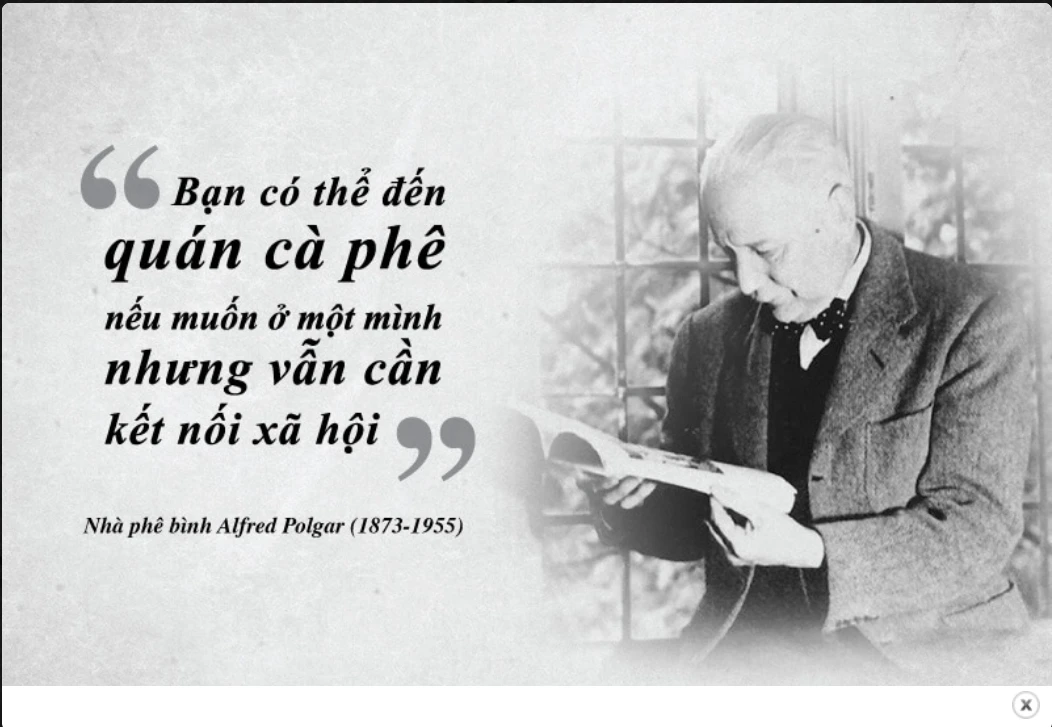
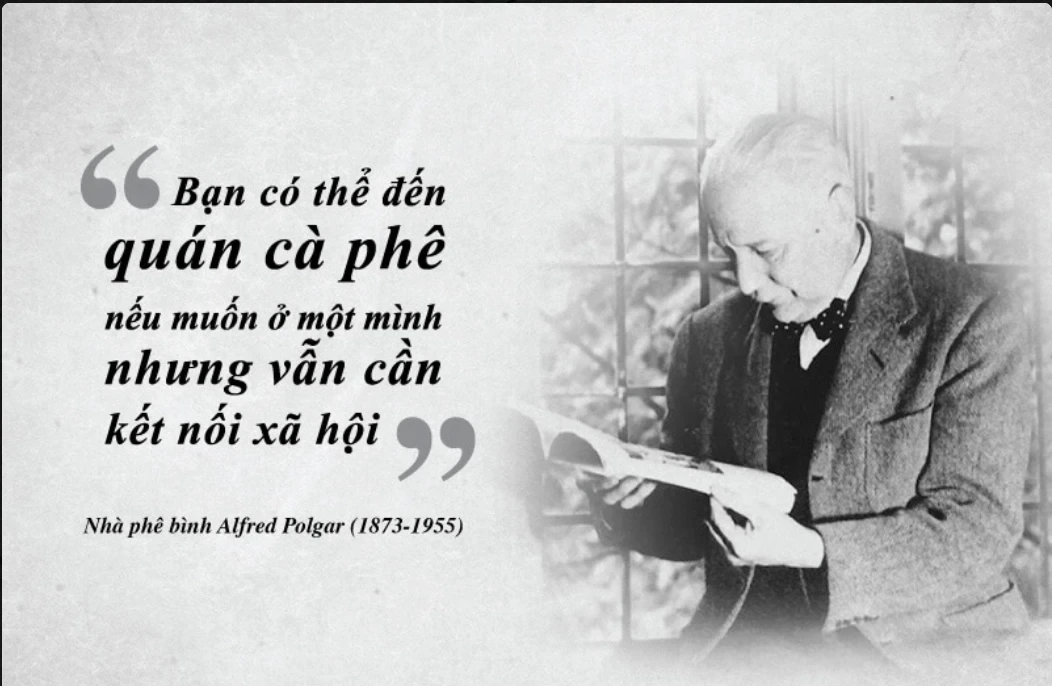
Xóa dấu × và dải trắng ở góc dưới phải của 4 ảnh trích dẫn
- Sydney Smith, Beethoven, Polgar: cắt bỏ dải trắng ở đáy ảnh (chứa dấu ×), ảnh còn
  686 điểm ảnh chiều cao; lưu WebP chất lượng cao
- Balzac: tô trắng đúng khung dấu ×, giữ PNG
- beethoven.png đổi thành beethoven.webp (xóa bản PNG gốc); cập nhật trich-dan.js
- Nguồn xử lý là bản PNG chất lượng cao hơn bản nháp trước

Đã thử trên trang: cả 4 ảnh hiện đúng, vừa khung, không còn dấu × trong ảnh.

Changed region(s): [[0.0, 0.1837, 1.0, 1.0], [0.0608, 0.1837, 0.4563, 0.7959], [0.7909, 0.2449, 0.8213, 0.2755]]

diff --git a/trich-dan.js b/trich-dan.js
@@ -8,7 +8,7 @@
   var QUOTES = [
     { src: "anh/menendez-pelayo.webp", alt: "\"Thế hệ tạo nên sự đổi mới của Tây Ban Nha được hình thành trong quán cà phê và các tổ chức giáo dục tự do.\" Triết gia Marcelino Menéndez Pelayo (1856 - 1912)" },
     { src: "anh/goldoni.webp", alt: "\"Một khi cà phê thịnh hành, tinh thần được đánh thức, mọi người đều cố gắng trở thành người văn minh hơn.\" Carlo Goldoni (1707 - 1793)" },
-    { src: "anh/beethoven.png", alt: "\"Tôi có thói quen lựa chọn đủ 60 hạt cà phê để pha một tách Moka.\" Thiên tài âm nhạc Ludwig Van Beethoven (1770 - 1827)" },
+    { src: "anh/beethoven.webp", alt: "\"Tôi có thói quen lựa chọn đủ 60 hạt cà phê để pha một tách Moka.\" Thiên tài âm nhạc Ludwig Van Beethoven (1770 - 1827)" },
     { src: "anh/polgar.webp", alt: "\"Bạn có thể đến quán cà phê nếu muốn ở một mình nhưng vẫn cần kết nối xã hội.\" Nhà phê bình Alfred Polgar (1873 - 1955)" },
     { src: "anh/balzac.png", alt: "\"Khi tôi uống cà phê, các ý tưởng xuất hiện như đi diễu hành trong quân đội.\" Honoré de Balzac" },
     { src: "anh/verri.webp", alt: "\"Cà phê tái tạo tâm hồn, đánh thức tâm trí và đặc biệt hữu ích cho những nhà tư tưởng và những người nghiên cứu khoa học.\" Triết gia người Ý Pietro Verri (1728 - 1797)" },
